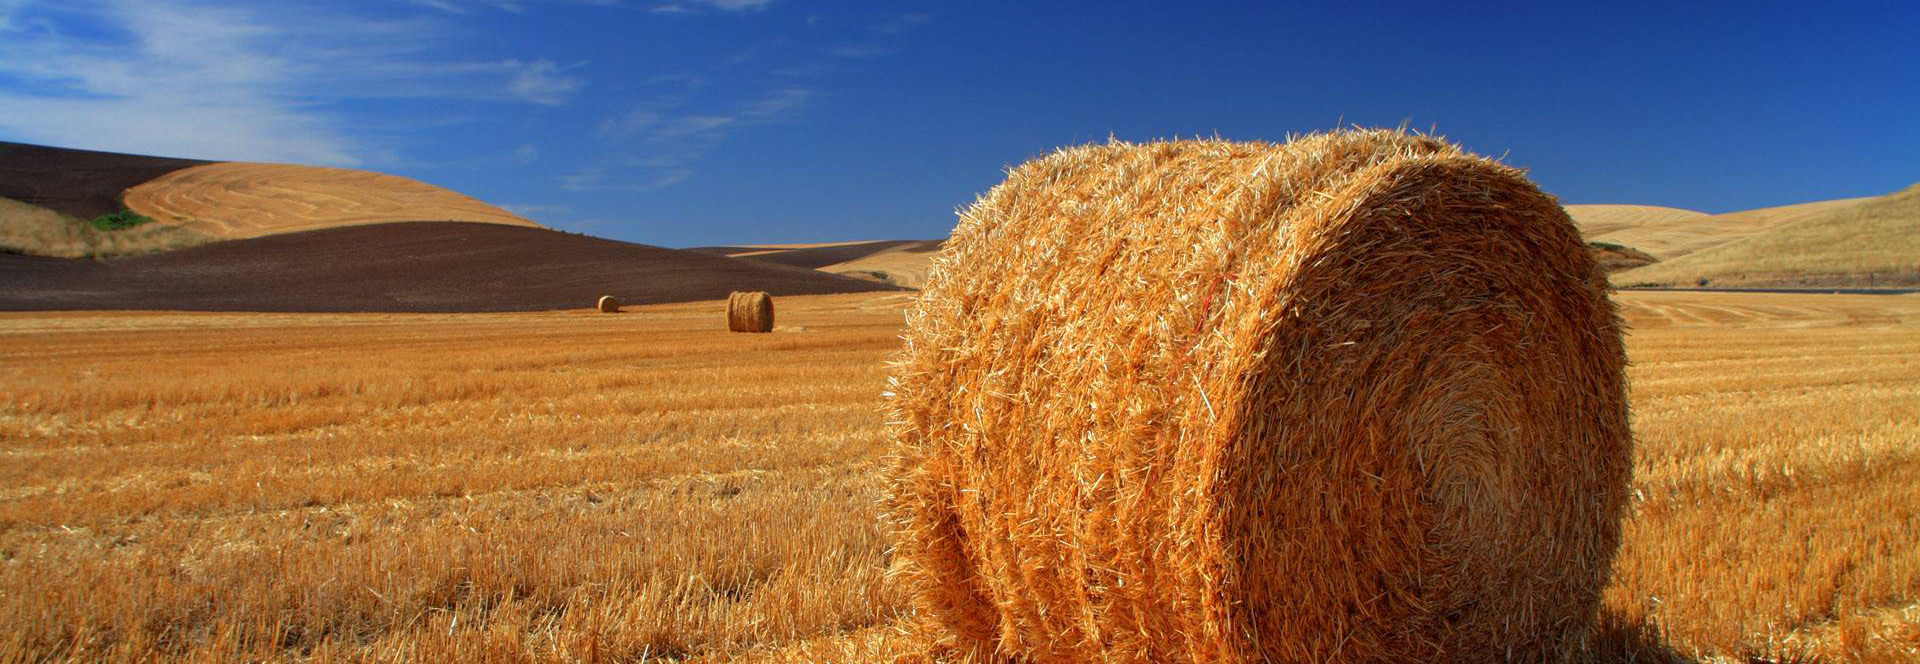
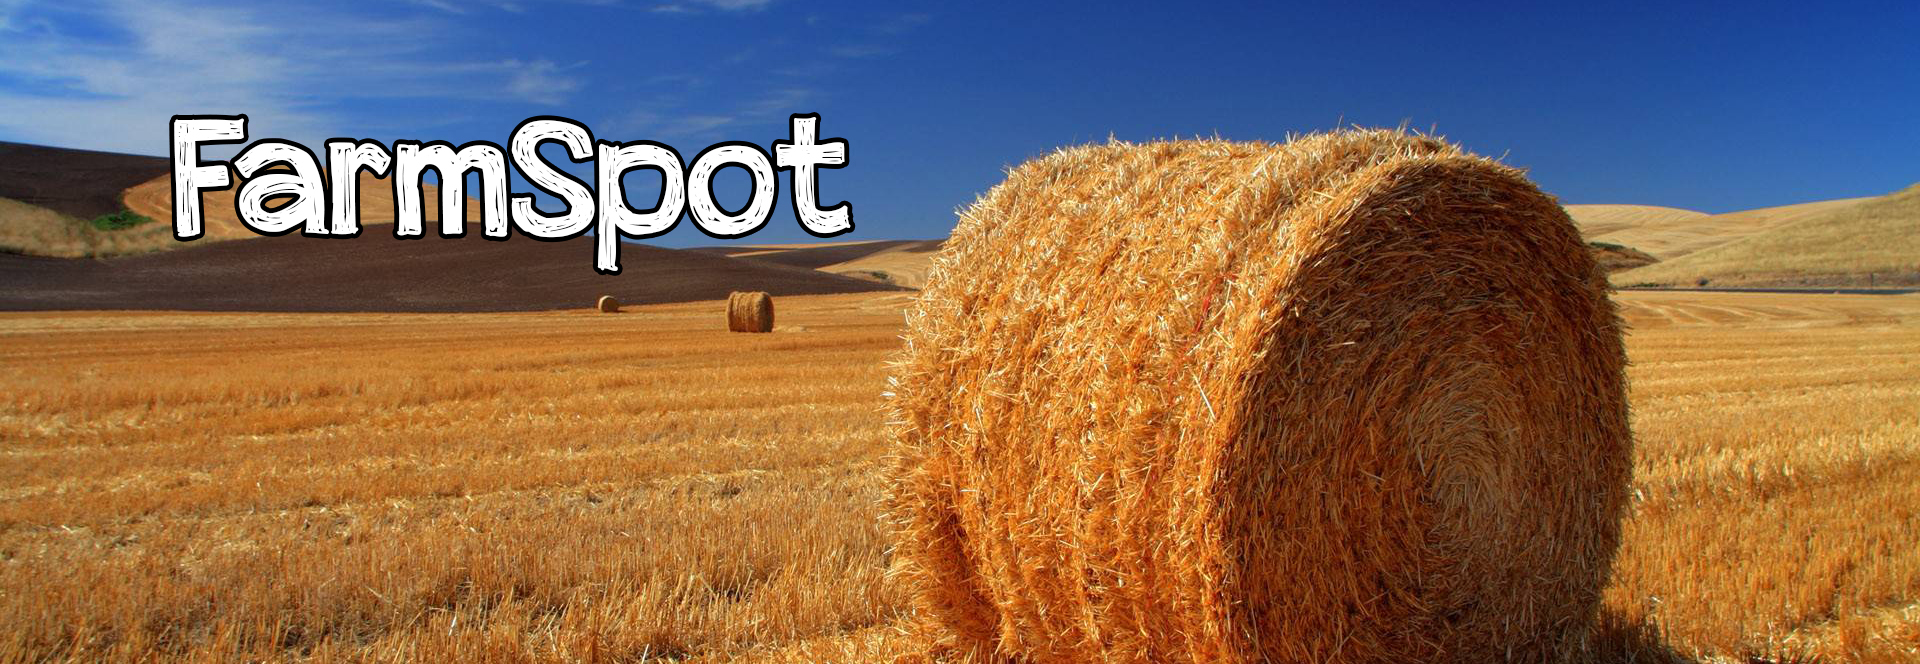
Home Page Removed title, updated graphic

Changed region(s): [[0.0625, 0.1506, 0.4688, 0.4217]]

diff --git a/farm/templates/home.html b/farm/templates/home.html
@@ -11,8 +11,6 @@
 
 {% block content %}
 <img class="banner" src="/static/field.jpg"/>
-<h1>Farm Thing</h1>
-
 {% endblock %}
 
 
